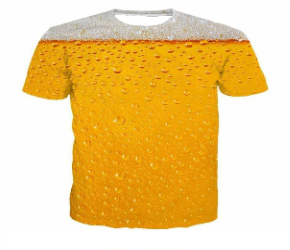
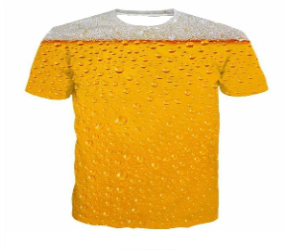
1

diff --git a/bot.py b/bot.py
@@ -3137,7 +3137,7 @@ CLOTHING_SHOP_ITEMS = [
         "image": "images/shop/beer.png",
         "slot": "top",
         "scale": 165,
-        "x": 365,
+        "x": 364,
         "y": 153,
     },
 ]
